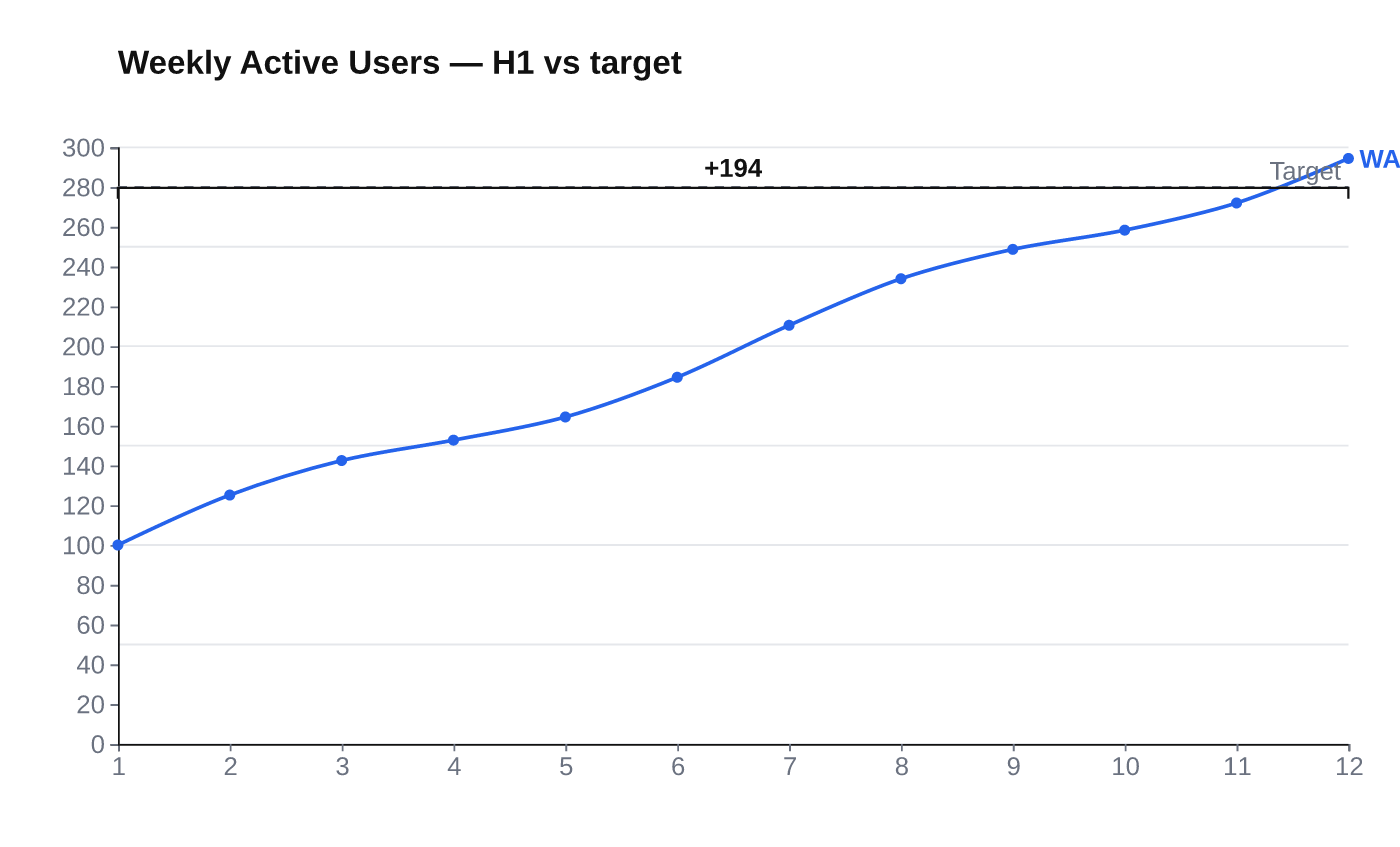
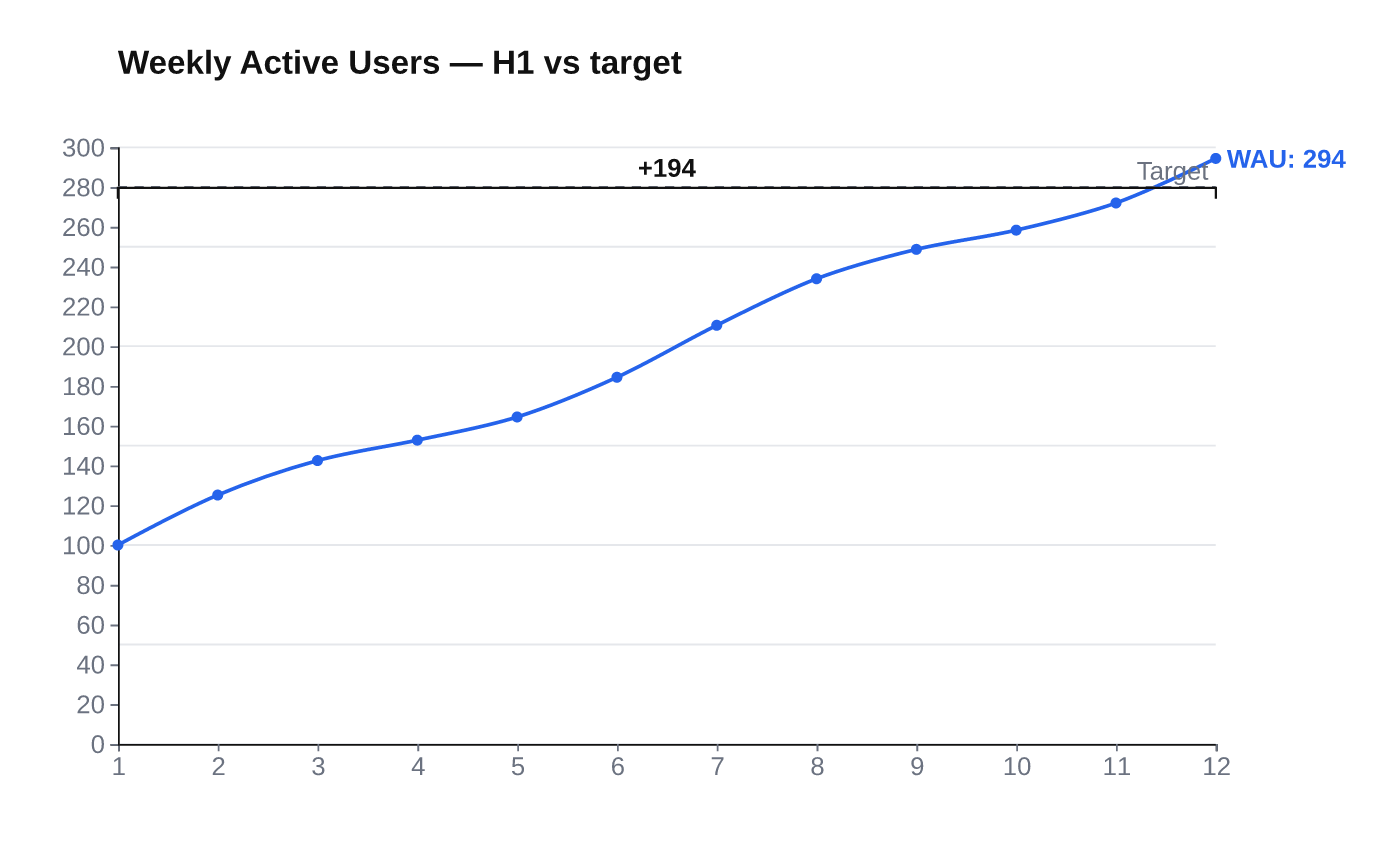
Line chart: reserve right padding for endpoint labels
Previously a line with showEndpointLabels true would render the
"<series>: <value>" label at last.x + 6 — and if last.x was at
innerWidth (typical), the label fell off the right edge of the SVG.
Gallery #03 showed "WAU: 295" cropped to "WA".

Fix:
  - FrameOptions gains a paddingExtra: { top, right, bottom, left }
    field. createFrame adds these to ds.layout.padding before computing
    plot rect & inner translate. Title/source still anchor to the base
    left padding (they're chart-edge content, not plot content).
  - renderLine computes endpointLabelReserve(input, ds): for every
    series, takes the rendered text ("<name>: <value>" or just <value>),
    estimates pixel width via 0.55 * fontSize * length (sans-serif
    heuristic; jsdom measureText is unreliable), keeps the max, adds
    10pt of breathing room (6pt point→label + 4pt right safety).
  - Pass that as paddingExtra.right when > 0.

Endpoint label now sits fully inside the SVG with the data point still
visible, and the plot scales appropriately when other charts' labels
would have overflowed too.

Gallery #03 regenerated.

diff --git a/src/charts/common.ts b/src/charts/common.ts
@@ -25,6 +25,11 @@ export interface FrameOptions {
   source?: string;
   description?: string;
   background?: "default" | "transparent";
+  /** Extra padding ADDED to ds.layout.padding (per side, in pt). Used by
+   *  renderers that need to reserve room for content sized at runtime —
+   *  e.g. line charts with `showEndpointLabels` need extra right padding
+   *  big enough to fit the longest series label. */
+  paddingExtra?: { top?: number; right?: number; bottom?: number; left?: number };
 }
 
 // All header/footer/legend spacing now reads from ds.spacing — no magic
@@ -110,37 +115,44 @@ export function createFrame(
       .text(options.source);
   }
 
-  // Effective bottom padding: reserve room for source line (if any) so the
-  // legend and x-axis tick labels don't crash through it. The reserve is
-  // governed by the design system's source/legend offsets.
+  // Effective padding: ds.layout.padding + per-side runtime overrides
+  // (paddingExtra) + the source-line reserve at the bottom.
+  const extra = options.paddingExtra ?? {};
+  const padTop = ds.layout.padding.top + (extra.top ?? 0);
+  const padRight = ds.layout.padding.right + (extra.right ?? 0);
+  const padBottom = ds.layout.padding.bottom + (extra.bottom ?? 0);
+  const padLeft = ds.layout.padding.left + (extra.left ?? 0);
   const sourceReserve = options.source
     ? ds.spacing.legendBottomMarginWithSource - ds.spacing.legendBottomMargin
     : 0;
-  const effectiveBottom = ds.layout.padding.bottom + sourceReserve;
+  const effectiveBottom = padBottom + sourceReserve;
 
-  const innerWidth =
-    widthPt - ds.layout.padding.left - ds.layout.padding.right;
-  const innerHeight = heightPt - ds.layout.padding.top - effectiveBottom;
+  const innerWidth = widthPt - padLeft - padRight;
+  const innerHeight = heightPt - padTop - effectiveBottom;
 
   const inner = svg
     .append("g")
     .attr("class", "chart-inner")
-    .attr(
-      "transform",
-      `translate(${ds.layout.padding.left},${ds.layout.padding.top})`,
-    ) as unknown as d3.Selection<SVGGElement, unknown, null, undefined>;
+    .attr("transform", `translate(${padLeft},${padTop})`) as unknown as d3.Selection<
+    SVGGElement,
+    unknown,
+    null,
+    undefined
+  >;
 
   const overlay = svg
     .append("g")
     .attr("class", "chart-overlay")
-    .attr(
-      "transform",
-      `translate(${ds.layout.padding.left},${ds.layout.padding.top})`,
-    ) as unknown as d3.Selection<SVGGElement, unknown, null, undefined>;
+    .attr("transform", `translate(${padLeft},${padTop})`) as unknown as d3.Selection<
+    SVGGElement,
+    unknown,
+    null,
+    undefined
+  >;
 
   const plot: Rect = {
-    x: ds.layout.padding.left,
-    y: ds.layout.padding.top,
+    x: padLeft,
+    y: padTop,
     width: innerWidth,
     height: innerHeight,
   };

diff --git a/src/charts/line.ts b/src/charts/line.ts
@@ -50,16 +50,45 @@ export interface RenderResult {
   layout: LineLayout;
 }
 
+/** Heuristic glyph width for proportional sans-serif at the given font size.
+ *  Avoids needing a real DOM measureText (jsdom's is unreliable). Matches
+ *  Inter/Calibri/Segoe UI well enough for layout reserves. */
+function approxTextWidth(text: string, fontSize: number): number {
+  return Math.ceil(text.length * fontSize * 0.55);
+}
+
+/** Right-padding reserve so endpoint labels don't fall off the SVG.
+ *  Returns 0 when no endpoint labels are requested. */
+function endpointLabelReserve(input: LineChartInput, ds: DesignSystem): number {
+  if (!input.showEndpointLabels && !input.showLastValueOnly) return 0;
+  const fmt = d3.format(input.valueFormat);
+  let max = 0;
+  for (const s of input.series) {
+    if (!s.points.length) continue;
+    const last = s.points[s.points.length - 1]!;
+    const text = input.showEndpointLabels
+      ? `${s.name}: ${fmt(last.y)}`
+      : fmt(last.y);
+    const w = approxTextWidth(text, ds.typography.labelSize);
+    if (w > max) max = w;
+  }
+  // 6pt of breathing room between the last point and the start of the label,
+  // plus a 4pt safety buffer on the right edge.
+  return max ? max + 10 : 0;
+}
+
 export function renderLine(
   input: LineChartInput,
   ds: DesignSystem,
 ): RenderResult {
+  const rightExtra = endpointLabelReserve(input, ds);
   const frame = createFrame(ds, input.widthPt, input.heightPt, {
     title: input.title,
     subtitle: input.subtitle,
     source: input.source,
     description: input.description,
     background: input.background,
+    paddingExtra: rightExtra > 0 ? { right: rightExtra } : undefined,
   });
   const { inner, innerWidth, innerHeight } = frame;
   const colors = ds.palette.categorical;
